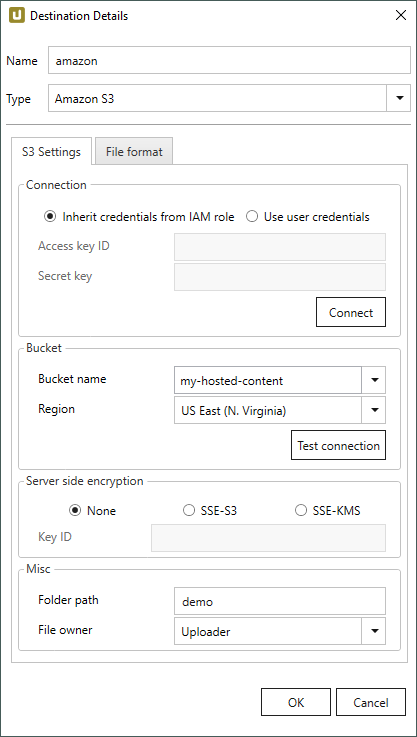
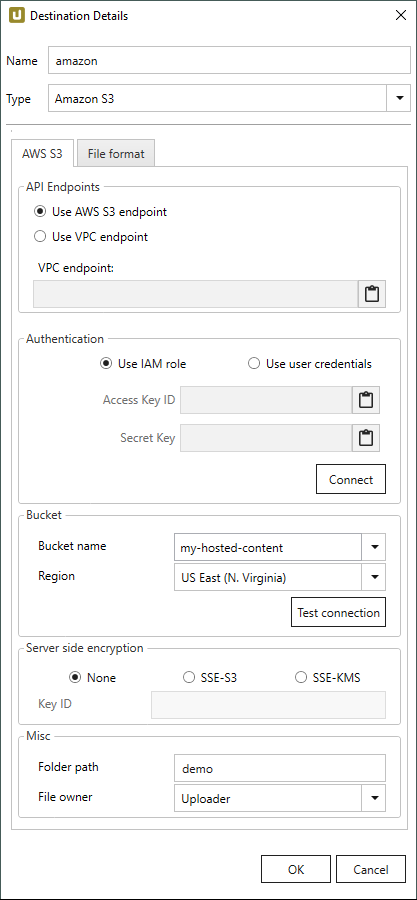
screenshot + VCP

diff --git a/projects/xtract-universal/docs/documentation/destinations/amazon-aws-s3.md b/projects/xtract-universal/docs/documentation/destinations/amazon-aws-s3.md
@@ -44,22 +44,36 @@ Select "Lifecycle" and "Add lifecycle rule" and create a rule for deleting unuse
 
 {% include "destinations/create-destination.md" %}
 
-### S3 Settings
-
 ![Destination-Details](../../assets/images/xu/documentation/destinations/amazon-s3/destination-details.png){:class="img-responsive"}
 
-### Connection
+### API Endpoints
 
-#### Inherit Credentials from IAM role
-The credentials and permissions of the IAM role assigned to the [EC2 instance](https://docs.aws.amazon.com/IAM/latest/UserGuide/id_roles_use_switch-role-ec2.html), on which Xtract Universal is running will be used for authentication. 
+The endpoint defines which IP address is used to connect to an Amazon S3 instance. 
+
+#### Use AWS S3 Endpoint
+When this option is active, {{ productName }} connects to Amazon S3 using a URL that consists of the bucket name and the Amazon S3 default URL:
+`https://[BucketName].s3.amazonaws.com/`
+
+#### Use VPC Endpoint
+When this option is active, {{ productName }} connects to Amazon S3 using a [Virtual Private Cloud (VPC) endpoint](https://docs.aws.amazon.com/AmazonS3/latest/userguide/privatelink-interface-endpoints.html).
+Enter the VPC endpoint in the field **VPC endpoint**, e.g., `http://bucket.vpce-0123456789abcdefg-hijklmno.s3.us-east-1.vpce.amazonaws.com`.
+
+### Authenthication
+
+The authentication method defines how Xtract Universal authenticates itself against Amazon AWS.
+
+#### Use IAM role
+
+When this option is active, the credentials and permissions of the IAM role assigned to the [EC2 instance](https://docs.aws.amazon.com/IAM/latest/UserGuide/id_roles_use_switch-role-ec2.html), on which Xtract Universal is running are used for authentication. 
 For more information on the IAM role, see [AWS Documentation: Security best practices in IAM](https://docs.aws.amazon.com/IAM/latest/UserGuide/best-practices.html).
 
-#### Access key ID and Secret key
-Preferable authentication method towards Amazon AWS. Determine the values via AWS Identity and Access Management ([IAM](https://console.aws.amazon.com/iam/home#/home)).
-More information is available in the official [AWS documentation](https://docs.aws.amazon.com/IAM/latest/UserGuide/id_credentials_access-keys.html).
+#### Use user credentials
+Preferable authentication method towards Amazon AWS. 
+Determine the values for the [Access Keys (access key ID and secret key)](https://docs.aws.amazon.com/IAM/latest/UserGuide/id_credentials_access-keys.html) via AWS Identity and Access Management ([IAM](https://console.aws.amazon.com/iam/home#/home)).
+
 
 #### Connect
-After entering Access key ID and Secret key, click **[Connect]**. After successfully connecting, select bucket name and region.
+After entering *Access key ID* and *Secret key*, click **[Connect]** to connect to AWS. After successfully connecting, select bucket name and region.
 
 ### Bucket
 
@@ -87,7 +101,7 @@ For more information, see [AWS Documentation: Protecting data with server-side e
 #### SSE-S3
 Encrypts data using the by default available S3 user account encryption key, see [S3 Managed Encryption Keys](https://docs.aws.amazon.com/AmazonS3/latest/dev/UsingServerSideEncryption.html).
 
-#### SSE-KMS und Key ID*
+#### SSE-KMS / Key ID
 Encryption using a custom encryption key created on AWS, see [AWS Key Management Services](https://docs.aws.amazon.com/AmazonS3/latest/dev/UsingKMSEncryption.html). 
 The key can be created on the [AWS website](https://console.aws.amazon.com/iam/home#/encryptionKeys/.)
 
